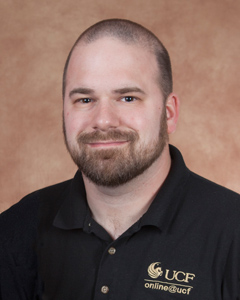
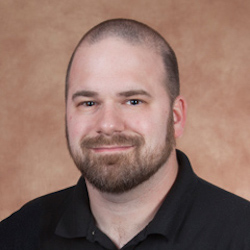
adds photos for jake, josh, jp, keri, and marc

diff --git a/_techrangers_past/jp_peters.html b/_techrangers_past/jp_peters.html
@@ -1,6 +1,7 @@
 ---
 sex: male
 override_url: https://www.linkedin.com/in/jppeters
+thumbnail: jp2.png
 name: JP Peters
 title: Techranger
 date: 1999-08-23

diff --git a/_techrangers_past/josh_waters.html b/_techrangers_past/josh_waters.html
@@ -2,5 +2,5 @@
 sex: male
 name: Josh Waters
 title: Techranger
-thumbnail: josh_waters.jpg
+thumbnail: josh_waters.png
 ---

diff --git a/_techrangers_past/keri_vrancik.html b/_techrangers_past/keri_vrancik.html
@@ -1,6 +1,7 @@
 ---
 sex: female
 name: Keri Vrancik
+thumbnail: keri.png
 title: Techranger
 date: 2000-07-01
 resigned: ??

diff --git a/_techrangers_past/marc_moseley.html b/_techrangers_past/marc_moseley.html
@@ -4,5 +4,5 @@ name: Marc Moseley
 title: Techranger
 date: 1999-11-11
 resigned: ??
-
+thumbnail: marc_moseley2.png
 ---

diff --git a/_techrangers_past/jake_waters.html b/_techrangers_past/jake_waters.html
@@ -1,5 +1,6 @@
 ---
 sex: male
+thumbnail: jake_waters.png
 name: Jake Waters
 title: Techranger
 ---
